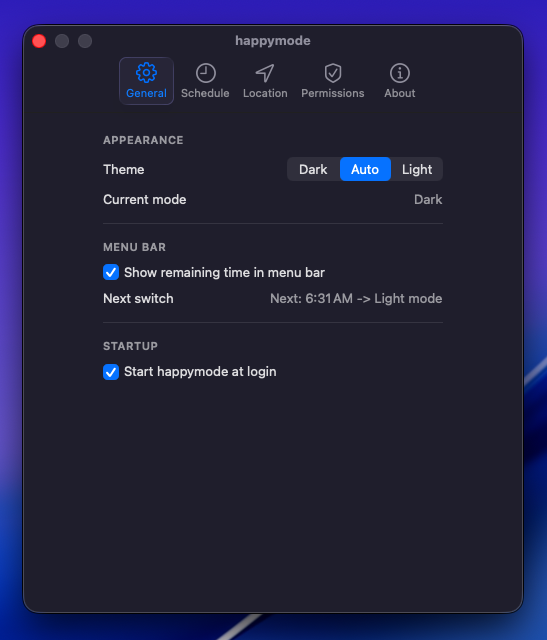
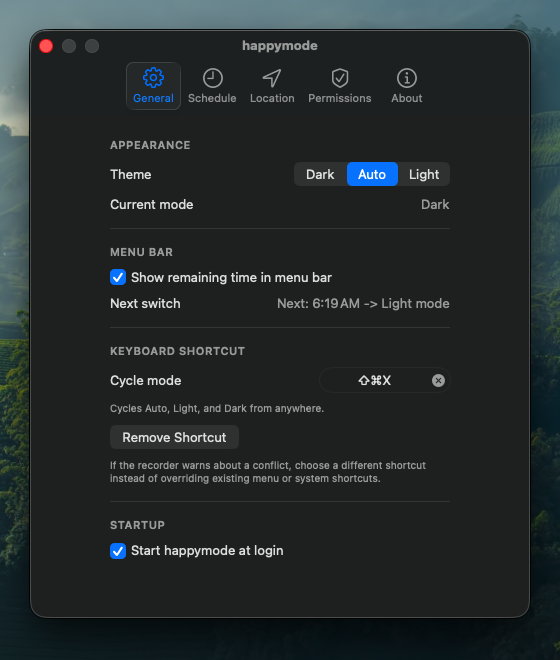
Update screenshot docs for v0.0.7

diff --git a/docs/screenshots/README.md b/docs/screenshots/README.md
@@ -3,7 +3,7 @@
 Place PNG screenshots in this folder for `README.md`:
 
 - `menu.png`: menu bar popover open, showing mode and controls.
-- `general-settings.png`: General settings window with startup and appearance options.
+- `general-settings.png`: General settings window with appearance, menu bar, keyboard shortcut, and startup options.
 - `schedule-settings.png`: Schedule settings with sunrise/sunset and custom times options.
 - `permissions-settings.png`: Permissions and location settings sections visible.
 

diff --git a/README.md b/README.md
@@ -97,7 +97,7 @@ Open `Settings…` to configure:
 ## Screenshots
 
 ![Menu bar](docs/screenshots/menu.png)
-![General settings](docs/screenshots/general-settings.png)
+![General settings with keyboard shortcut](docs/screenshots/general-settings.png)
 ![Schedule settings](docs/screenshots/schedule-settings.png)
 ![Permissions settings](docs/screenshots/permissions-settings.png)
 
